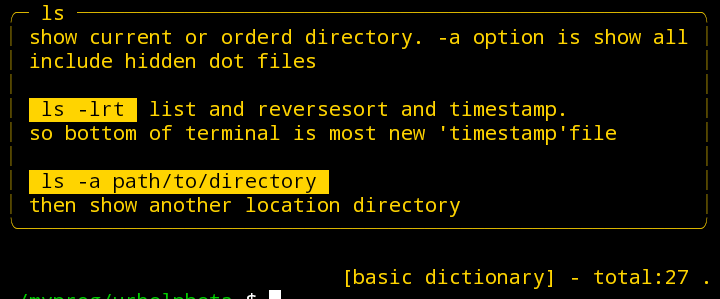
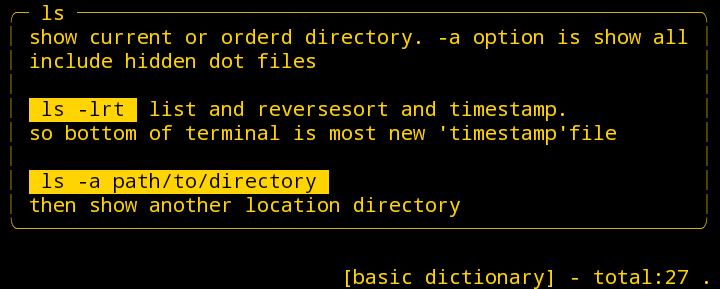
theme and images fix

diff --git a/uhelp.py b/uhelp.py
@@ -30,7 +30,7 @@ import logging
 
 # Choosing a path when building a .deb package
 # python(one directory) or deb(deb package style)
-pathtype = "deb"
+pathtype = "python"
 
 # for adjust binary compile path
 if pathtype == "python":
@@ -196,8 +196,7 @@ THEMES = [
         description="fruits theme",
         tags=["fruits"],
         styles={
-            "title": "bold #340704 on #f7d3a6",
-            #"title": "bold #FAE9E8 on #9F66EA", refd groslip
+            "title": "bold #E25666",
             "oldusage": "blue",
             "usage": "bold #590B1A on #E95B6B",
             "strong": "bold blue",
@@ -304,6 +303,8 @@ THEMES = [
         },
     ),
 ]
+
+            #"title": "bold #FAE9E8 on #9F66EA",Referenced pypi software glosslip
 
 
 def get_args():

diff --git a/README.md b/README.md
@@ -1,6 +1,6 @@
 ![uhelp banner](images/uhelp_banner.png)
 
-<h1 align="center">uhelp <h2>-Welcome to Your own help-</h2> 👋</h1>
+<h1 align="center">-Welcome to Your own help- 👋</h1>
 <p>
 <img alt="Version" src="https://img.shields.io/badge/version-1.0-blue.svg?cacheSeconds=2592000" />
   <img alt="Python" src="https://img.shields.io/badge/-Python-F2C63C.svg?logo=python&style=for-the-badge">
@@ -14,17 +14,17 @@
 > *and you can also set it to be displayed at the same time as your own.*  
 
 
-##NOTE : *Now Making*
->**The package has not been completed yet for installation, please wait.**  
->*If you want to try it even if it's not a package, please try the explanation a little ahead* **git clone method**
+## NOTE : *Now Making*
+> **The package has not been completed yet for installation, please wait.**  
+> *If you want to try it even if it's not a package, please try the explanation a little ahead* **git clone method**
 
 &nbsp;
 ## ~~Install~~
 Ways 1 using pip  
 
-~~```sh
+```sh
 pip install uhelp
-```~~  
+```  
 
 Ways 2 using .deb  
 *choose Debian deb package your CPU architecture*  
@@ -49,7 +49,6 @@ In that directory you can run like
 python3 ./uhelp.py ls
 ```  
 
-You can use it from anywhere if you create bash or zsh alias with "uhelp" or "uh"  
 
 ```sh
 uhelp ls
@@ -98,8 +97,6 @@ Now you can choose from 5 options: default, retro, retro2, simple, fruits
 ![retro style](images/retro_style.png) ![retro2 style](images/retro2_style.png)  
 ![simple style](images/simple_style.png) ![fruits style](images/fruits_style.png)  
 
-
-<img alt="default style" src='./images/default_style.png' width=50%><img alt="retro2 style" src='./images/retro2_style.png' width=50%>
 
 
 ***
